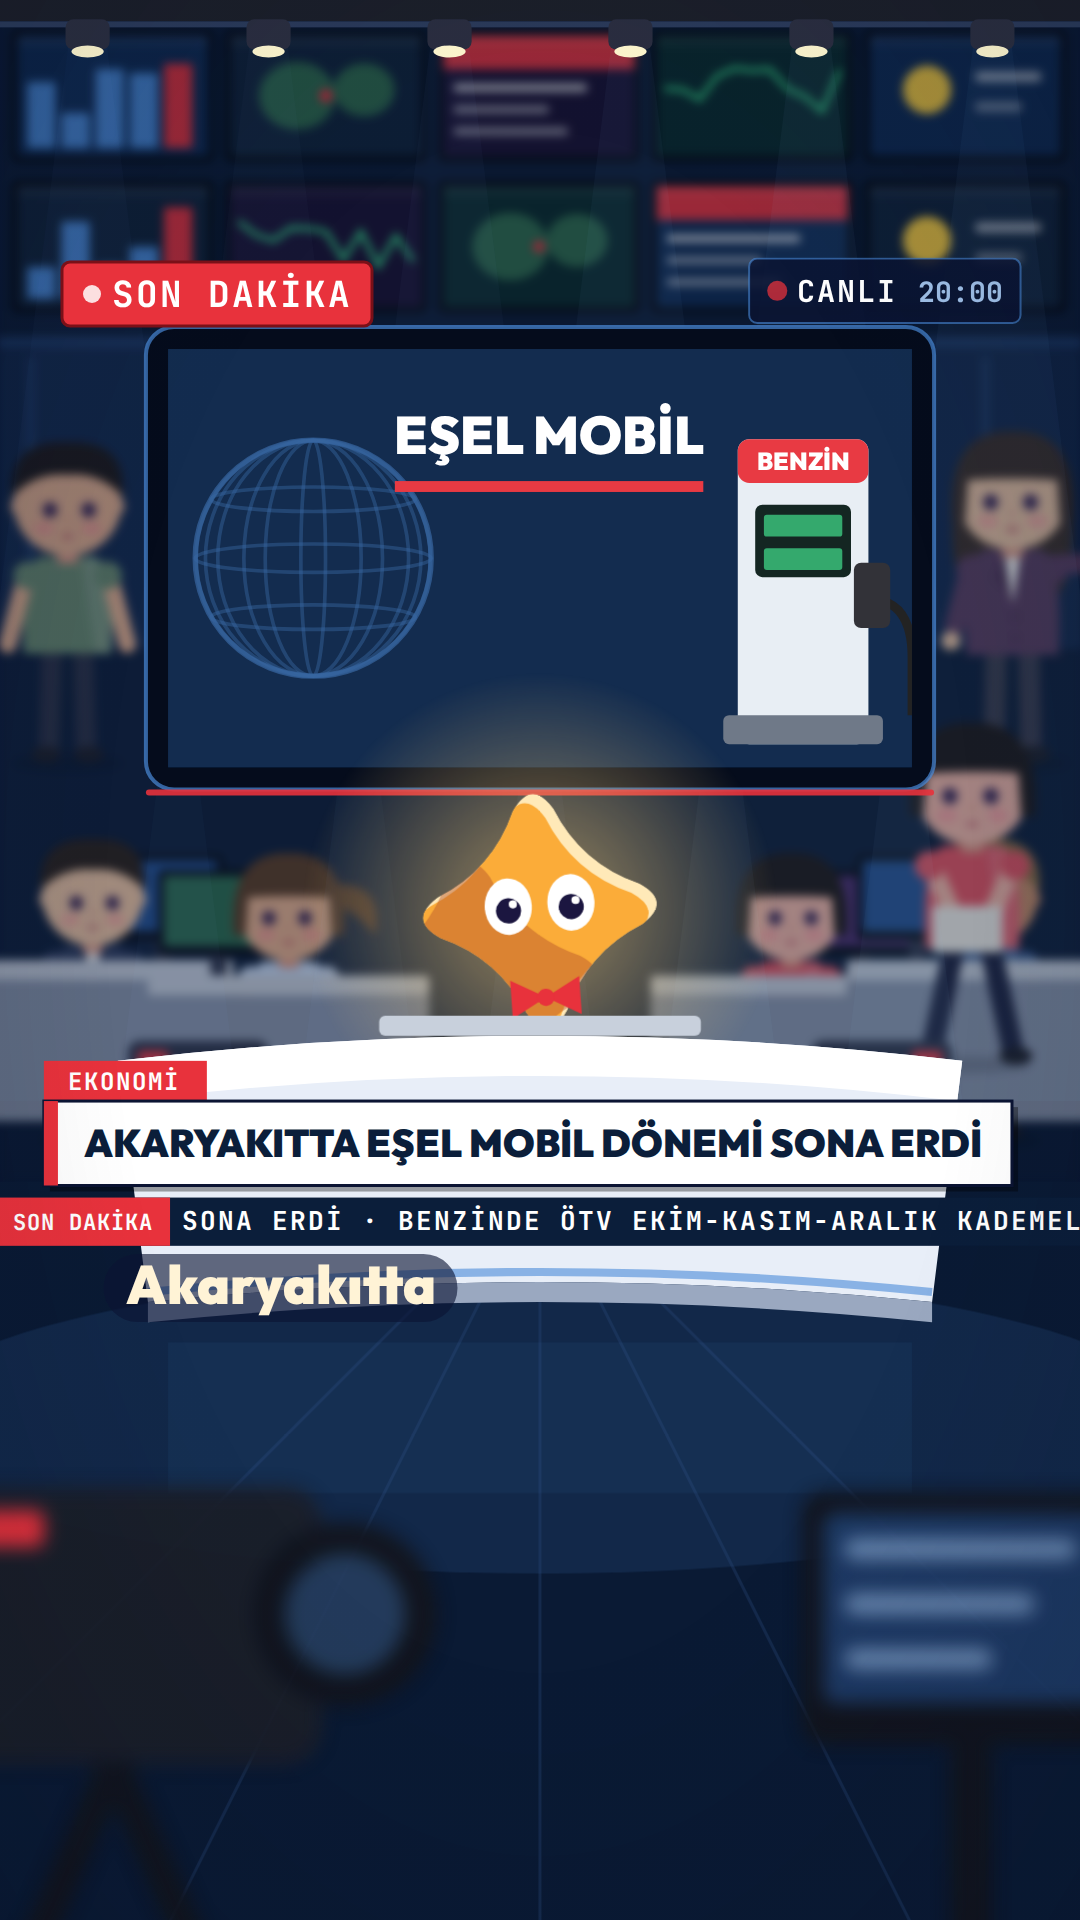
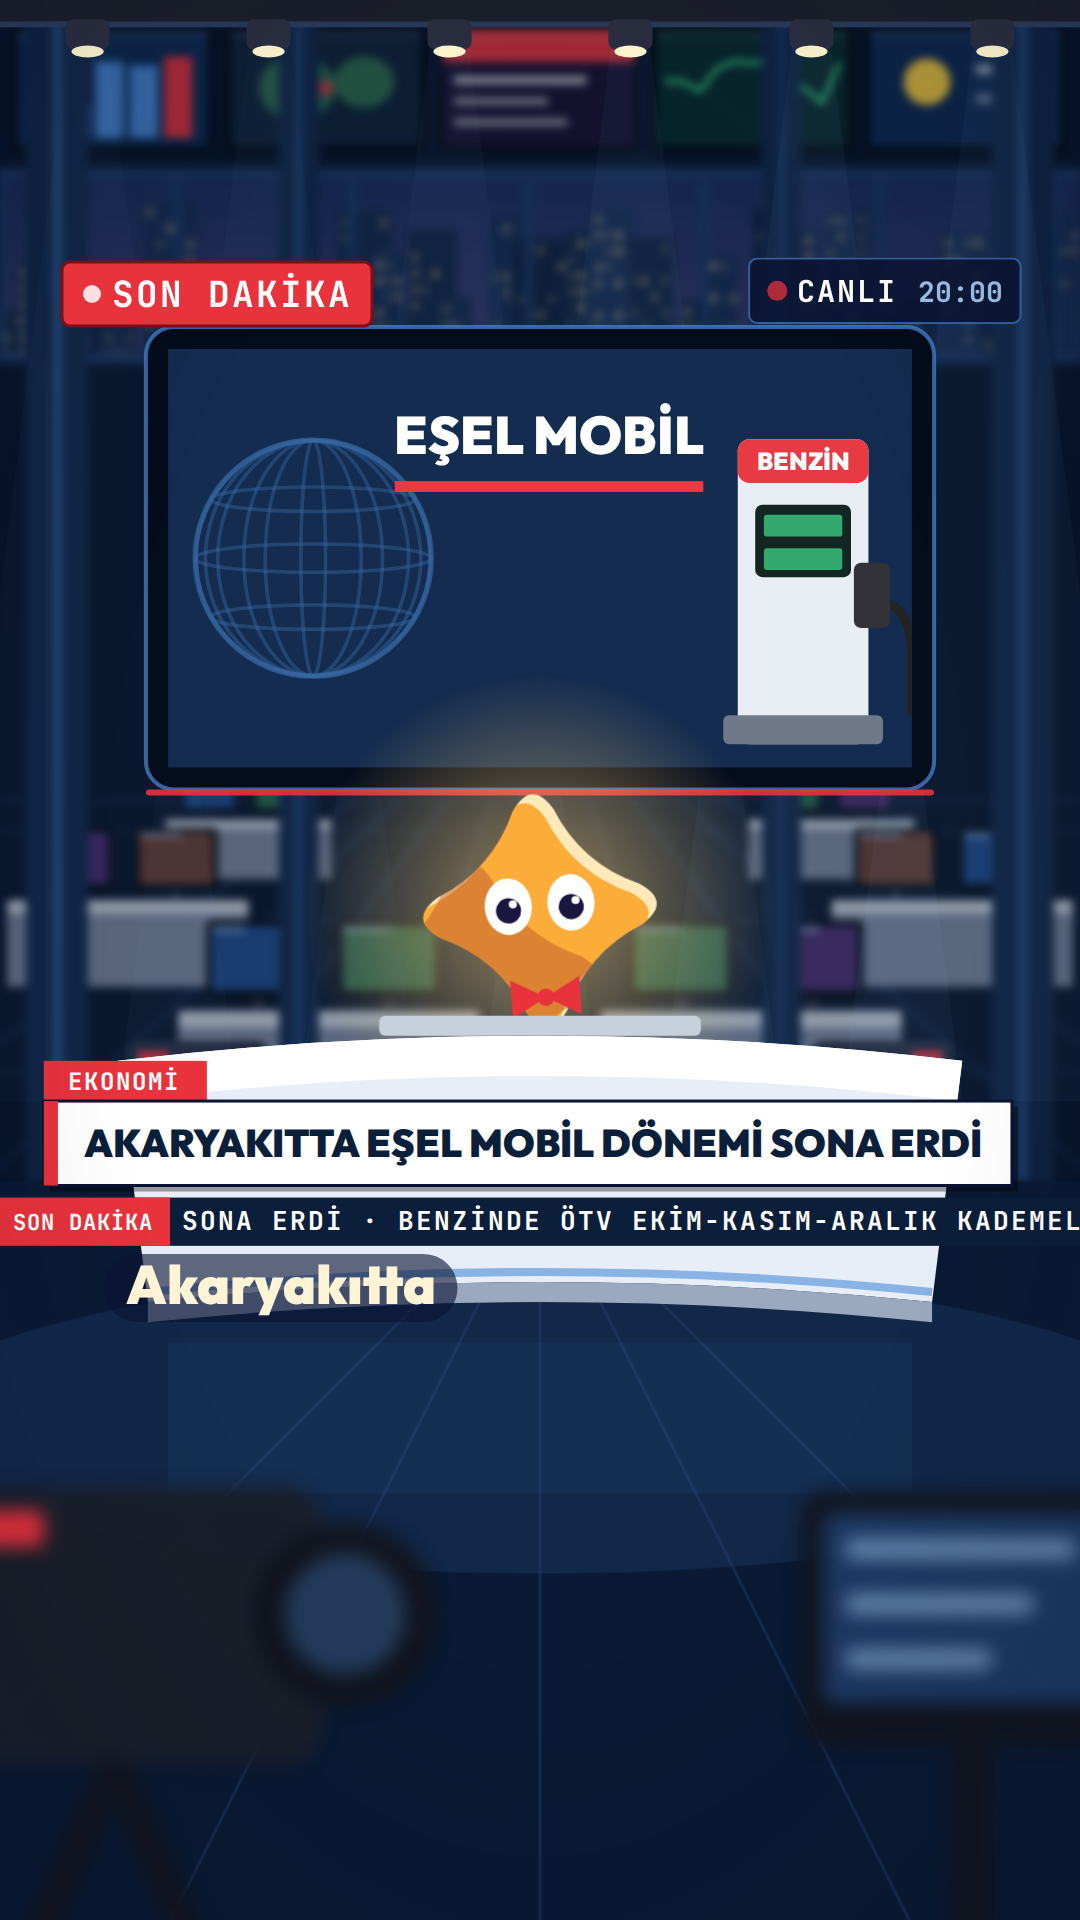
Gufibu Haber: stüdyoda insanlar kaldırıldı, derinlik katmanları (şehir penceresi, perspektif masalar, sütunlar); saha şebeke işareti kaldırıldı
Claude-Session: https://claude.ai/code/session_01XpFWe2qV8RD24ed2Fkasje

Changed region(s): [[0.0, 0.0, 1.0, 0.5938], [0.55, 0.1875, 1.0, 0.625]]

diff --git a/gubigufi/haber/ortak/hb.js b/gubigufi/haber/ortak/hb.js
@@ -32,34 +32,34 @@ const HB = (() => {
     else if (tip === 3) { o += R(x, y, w, hh * .28, 0, KR) + R(x + 10, y + hh * .4, w * .7, 8, 4, '#FFFFFF', .7) + R(x + 10, y + hh * .58, w * .5, 8, 4, '#FFFFFF', .5) + R(x + 10, y + hh * .76, w * .6, 8, 4, '#FFFFFF', .5); }
     else { o += `<circle cx="${x + w * .3}" cy="${y + hh * .45}" r="${hh * .2}" fill="#FFD23F"/>` + R(x + w * .55, y + hh * .3, w * .35, 10, 5, '#FFFFFF', .6) + R(x + w * .55, y + hh * .55, w * .25, 10, 5, '#FFFFFF', .4); }
     return o + R(x, y, w, hh * .08, 0, '#FFFFFF', .06); }
-  // çalışan: masada oturan (üst gövde) ya da yürüyen
-  const CALISAN = [['#FFFDF6', '#2A2E40', { tip: 'kisa', renk: '#2A1E14' }, '#F2C6A0', { ceket: '#2E3A5A' }], ['#C8D8F0', '#2A2440', { tip: 'atkuyrugu', renk: '#5A3A20' }, '#E8B08A', {}], ['#E8505B', '#1B1F3A', { tip: 'kakul', renk: '#1B1410' }, '#F7B8A4', {}],
-    ['#3A5A8C', '#2A2E40', { tip: 'kisa', renk: '#8A6A3A' }, '#C88A60', {}], ['#FFFFFF', '#3A3A48', { tip: 'uzun', renk: '#3A2A20' }, '#F2C6A0', { ceket: '#5A3A5A' }], ['#6A8A6A', '#2A2E40', { tip: 'kisa', renk: '#1B1410' }, '#E8B08A', {}]];
-  const kisi = (x, y, boy, t, i, o2 = {}) => { const [u, a, sac, ten, ky] = CALISAN[i % CALISAN.length]; return KS.karakter(Object.assign({ x, y, boy, t, ust: u, alt: a, sac, ten, ayakkabi: '#1B1B22', kiyafet: ky, bak: [Math.sin(i * 2.3) * .6, .3], ifade: 'notr' }, o2)); };
-  function masaBas(x, y, t, i, yon = 1) { // y = masa üst yüzeyi; monitör kişinin yanında (yüzü kapatmaz)
-    let o = R(x + yon * 70 - 60, y - 105, 120, 85, 6, '#05080F') + R(x + yon * 70 - 54, y - 99, 108, 70, 3, ['#1E4A8A', '#2A6A4A', '#4A2A6A'][i % 3]) + R(x + yon * 70 - 8, y - 20, 16, 20, 3, '#2A2E40');
-    o += kisi(x, y + 175, 300, t + i, i, { bak: [yon * .8, .2] });
-    o += R(x - 140, y, 280, 20, 4, '#C8CED8') + R(x - 140, y + 20, 280, 140, 0, '#8A94A8');
-    return o; }
+  // boş masa (monitörleri yanık) — perspektifte ölçeklenir
+  function masaBos(x, y, k, t, i) { return `<g transform="translate(${x} ${y}) scale(${k})">` + R(-150, 0, 300, 18, 4, '#C8CED8') + R(-150, 18, 300, 90, 0, '#7A849A') +
+      [-70, 60].map((mx, q) => R(mx - 52, -90, 104, 78, 6, '#05080F') + R(mx - 46, -84, 92, 64, 3, ['#1E4A8A', '#2A6A4A', '#4A2A6A', '#6A3A2A'][(i + q) % 4]) + R(mx - 46, -84, 92 * (.3 + .3 * Math.abs(Math.sin(t * .7 + i + q))), 6, 2, '#9FC0E8', .6) + R(mx - 6, -12, 12, 12, 2, '#2A2E40')).join('') + '</g>'; }
   function haberOdasi(t) { let o = '';
-    // arka duvar: monitör duvarı (üst) + cam bölme + neon tabela
-    o += R(0, 0, 1080, 1180, 0, '#0B1A33');
+    const VX = 540, VY = 760;   // kaybolma noktası
+    // UZAK: monitör sırasının altında panoramik gece şehri penceresi (Gubi'nin arkasındaki derinlik)
+    let uzak = R(0, 0, 1080, 1180, 0, '#081428') + R(0, 180, 1080, 180, 0, '#16305C');
+    uzak += `<defs><linearGradient id="gok" x1="0" y1="0" x2="0" y2="1"><stop offset="0" stop-color="#1B2E5C"/><stop offset="1" stop-color="#3A3A6A"/></linearGradient></defs>` + R(0, 180, 1080, 180, 0, 'url(#gok)');
+    for (let b = 0; b < 30; b++) { const bx = b * 38 - 20 + h(b) * 16, bh = 40 + h(b + 50) * 120, bw = 30 + h(b + 9) * 26; uzak += R(bx, 360 - bh, bw, bh, 2, ['#14284A', '#182E54', '#102240'][b % 3]);
+      for (let wy = 360 - bh + 8; wy < 354; wy += 16) for (let wx = bx + 5; wx < bx + bw - 5; wx += 10) if (h(b * 97 + wx * 3 + wy) > .55) uzak += R(wx, wy, 5, 7, 1, '#FFD98A', .55 + .25 * Math.sin(t * .5 + wx)); }
+    uzak += [0, 1, 2, 3, 4, 5, 6].map(c => R(c * 175, 180, 8, 180, 0, '#1E3A66')).join('') + R(0, 172, 1080, 10, 0, '#1E3A66') + R(0, 356, 1080, 10, 0, '#1E3A66');
+    o += `<g style="filter:blur(5px)">${uzak}</g>`;
+    // ORTA: monitör duvarı + tavan/zemin perspektif çizgileri + derinlikte masa sıraları + sütunlar
+    let orta = '';
     const tipler = [0, 2, 3, 1, 4, 0, 1, 2, 3, 4];
-    for (let r = 0; r < 2; r++) for (let c = 0; c < 5; c++) o += miniEkran(20 + c * 212, 40 + r * 150, 190, 120, tipler[(r * 5 + c) % 10], t, r * 5 + c);
-    o += R(0, 340, 1080, 10, 0, '#1E3A66') + R(0, 350, 1080, 300, 0, '#12284A', .9);
-    for (let c = 0; c < 6; c++) o += R(c * 190 + 30, 360, 6, 290, 0, '#2A4A7A', .6);
-    // masalar + çalışanlar (duvarın iki yanı ve altı)
-    [[95, 960, 0, 1], [290, 975, 1, -1], [790, 975, 2, 1], [985, 960, 3, -1]].forEach(([x, y, i, yn]) => o += masaBas(x, y, t, i, yn));
-    // ayakta konuşan iki çalışan (sağ arka)
-    o += kisi(1010, 760, 330, t, 4, { bak: [-.8, 0], poz: 'goster' }) + kisi(70, 760, 320, t + 2, 5, { bak: [.8, 0] });
-    // yürüyen çalışan (dosya taşıyan)
-    const wx = 1180 - ((t * 70) % 1500);
-    o += kisi(wx, 1060, 340, t, 2, { adim: t * 6, poz: 'tasi', bak: [-.8, 0] }) + R(wx - 40, 1060 - 340 * .4 - 18, 70, 46, 4, '#F4F0E6');
-    // stüdyo kameraları (tripod)
-    for (const [x, sx] of [[200, 1], [880, -1]]) o += `<g transform="translate(${x} 1150) scale(${sx} 1)">` + `<path d="M0 0 L-60 140 M0 0 L60 140 M0 0 L0 150" stroke="#2A2E40" stroke-width="10"/>` + R(-70, -110, 140, 100, 12, '#2A2E40') + R(30, -95, 70, 70, 35, '#1B1F2A') + `<circle cx="65" cy="-60" r="22" fill="#4A8AD8" opacity=".5"/>` + R(-60, -100, 30, 14, 4, KR) + '</g>';
+    for (let r = 0; r < 1; r++) for (let c = 0; c < 5; c++) orta += miniEkran(20 + c * 212, 34, 190, 116, tipler[(r * 5 + c) % 10], t, r * 5 + c);
+    for (let k = 0; k < 9; k++) { const x0 = -200 + k * 185; orta += `<path d="M${x0} 1180 L${VX + (x0 - VX) * .25} ${VY + 40}" stroke="#2A4A7A" stroke-width="3" opacity=".5"/>`; }
+    for (let k = 0; k < 4; k++) { const yy = 800 + k * k * 30; orta += R(0, yy, 1080, 2, 0, '#2A4A7A', .4); }
+    [[250, 820, .55, 0], [830, 820, .55, 1], [130, 900, .8, 2], [950, 900, .8, 3], [330, 1010, 1.0, 4], [750, 1010, 1.0, 5]].forEach(([x, y, k, i]) => orta += masaBos(x, y, k, t, i));
+    for (const [x, k] of [[60, 1.1], [1020, 1.1], [300, .7], [780, .7]]) orta += `<g transform="translate(${x} 0) scale(${k} 1)">` + R(-28, 0, 56, 1180, 0, '#13284A') + R(-4, 0, 8, 1180, 0, '#4A8AD8', .35 + .15 * Math.sin(t * 1.5 + x)) + '</g>';
+    o += `<g style="filter:blur(4px)">${orta}</g>`;
+    // YAKIN: stüdyo kameraları (tripod)
+    let yakin = '';
+    for (const [x, sx] of [[200, 1], [880, -1]]) yakin += `<g transform="translate(${x} 1150) scale(${sx} 1)">` + `<path d="M0 0 L-60 140 M0 0 L60 140 M0 0 L0 150" stroke="#2A2E40" stroke-width="10"/>` + R(-70, -110, 140, 100, 12, '#2A2E40') + R(30, -95, 70, 70, 35, '#1B1F2A') + `<circle cx="65" cy="-60" r="22" fill="#4A8AD8" opacity=".5"/>` + R(-60, -100, 30, 14, 4, KR) + '</g>';
+    o += `<g style="filter:blur(3px)">${yakin}</g>`;
     return o; }
   function studyo(t, ic = '', { duvarIsik = 1 } = {}) {
-    let o = `<g style="filter:blur(5px)">${haberOdasi(t)}</g>` + `<rect width="1080" height="1180" fill="#081630" opacity=".35"/>`;
+    let o = haberOdasi(t) + `<rect width="1080" height="1180" fill="#081630" opacity=".3"/>`;
     // tavan ışık kirişi + spotlar + hacimli ışık
     o += R(0, 0, 1080, 26, 0, '#1B1F2A') + R(0, 26, 1080, 6, 0, '#2A3A5A');
     for (let i = 0; i < 6; i++) { const x = 90 + i * 180; o += `<path d="M${x - 18} 40 L${x + 18} 40 L${x + 150} 1100 L${x - 150} 1100Z" fill="#9FC8FF" opacity="${.035 + .01 * Math.sin(t * 1.3 + i)}"/>` + R(x - 22, 24, 44, 30, 8, '#2A2E40') + `<ellipse cx="${x}" cy="56" rx="16" ry="6" fill="#FFF8D0"/>`; }
@@ -97,7 +97,7 @@ const HB = (() => {
     if (q > .85) o += `<rect width="1080" height="1920" fill="#FFFFFF" opacity="${(q - .85) * 2}"/>`;
     return o; }
   // sinyal çubukları (bağlantı)
-  const sinyal = (x, y, n = 4) => [0, 1, 2, 3].map(i => R(x + i * 14, y - 10 - i * 8, 10, 10 + i * 8, 2, i < n ? AK : '#FFFFFF', i < n ? 1 : .3)).join('');
+  const sinyal = () => '';   // şebeke işareti kullanılmaz (kullanıcı kararı)
   // ---------- SAHA: akaryakıt istasyonu (akşam, markasız) ----------
   function pompa(x, y, s, { lpg = false, ekr = '' } = {}) { const c = lpg ? '#2E8A4A' : '#E8EEF4', b = lpg ? '#1F6A36' : KR;
     return `<g transform="translate(${x} ${y}) scale(${s})">` + R(-90, -420, 180, 420, 16, c) + R(-90, -420, 180, 60, 16, b) + yaz(lpg ? 'LPG' : 'BENZİN', 0, -378, 34, AK) + R(-66, -330, 132, 100, 10, '#0B1E1A') + (ekr || [0, 1].map(i => R(-54, -316 + i * 46, 108, 30, 4, '#3AE08A', .7)).join('')) + R(-110, -40, 220, 40, 8, '#6A7484') + `<path d="M90 -200 Q150 -200 150 -120 L150 -40" stroke="#1B1B1B" stroke-width="12" fill="none"/>` + R(70, -250, 50, 90, 10, '#2A2A30') + '</g>'; }

diff --git a/gubigufi/MARKA.md b/gubigufi/MARKA.md
@@ -274,7 +274,7 @@ Tarihli bir olay anlatılırken o sahnelerin ön ve arka planındaki insanlar an
 
 ## GUFİBU HABER FORMATI (`haber/` klasörü; kanal adı: **Gufibu Haber**, logo GUFİBU|HABER, mikrofon küpü 'GB')
 - Haber dili: tarafsız, yorumsuz, yalnızca doğrulanmış rakamlar; siyasi/hukuki/afet haberleri seçilmez. Kaynaklar metin dosyasına yazılır.
-- Akış: JENERİK (2 sn, ses 2,0 sn gecikmeli) → STÜDYO (haber merkezi: bulanık arka planda monitör duvarı, masalarda çalışanlar, ayakta konuşanlar, yürüyen çalışan, tripod kameralar, tavan spotları + ışık hüzmeleri; keskin ana video duvarı; Gubi sunucu masada, papyon; ön planda bulanık kamera + prompter) → arka ekranda Gufi yayını → ekran tam kadraja büyür + parazit → SAHA (Gufi muhabir, mikrofon) ↔ HABER GRAFİKLERİ (lacivert ızgara) → parazitle STÜDYOYA dönüş + "TAKİP ET" kartı → logo.
+- Akış: JENERİK (2 sn, ses 2,0 sn gecikmeli) → STÜDYO (haber merkezi, İNSAN YOK: derinlik katmanları — uzak: panoramik gece şehri penceresi; orta: monitör sırası, perspektif zemin/tavan çizgileri, derinlikte küçülen boş masalar (yanık monitörler), ışık şeritli sütunlar; yakın: tripod kameralar; tavan spotları + ışık hüzmeleri; keskin ana video duvarı; Gubi sunucu masada, papyon; ön planda bulanık kamera + prompter) → arka ekranda Gufi yayını → ekran tam kadraja büyür + parazit → SAHA (Gufi muhabir, mikrofon; şebeke/sinyal işareti YOK) ↔ HABER GRAFİKLERİ (lacivert ızgara) → parazitle STÜDYOYA dönüş + "TAKİP ET" kartı → logo.
 - Kanal katmanı (`haber/ortak/kanal.js`, haber projesine özel): sol üstte büyük kırmızı **SON DAKİKA** rozeti (nabız noktası); kategori etiketi ve süre çemberi YOK. **CANLI + saat** sağ üstte (çemberin yerinde), yer etiketi onun altında. Alt bandın beyaz kutusu ince lacivert kontur + gölgeli (stüdyo masasıyla karışmasın). Kayan şeritteki SON DAKİKA etiketi ölçülen genişlikte kırmızı kutuya tam sığar.
 - TV katmanı (`hb.js` HB.ekran): ● CANLI + saat, alt bant (y 1060–1184, kırmızı üst etiket), SON DAKİKA kayan şeridi (y 1196–1244), yer etiketi. Altyazı bandı 1280–1430 boş kalır; Gufi sahada y≈1830 (yüz bandın altında).
 - Pompa vb. ekranlarda gerçek fiyat uydurulmaz (yalnızca ↑ / sayaç).
